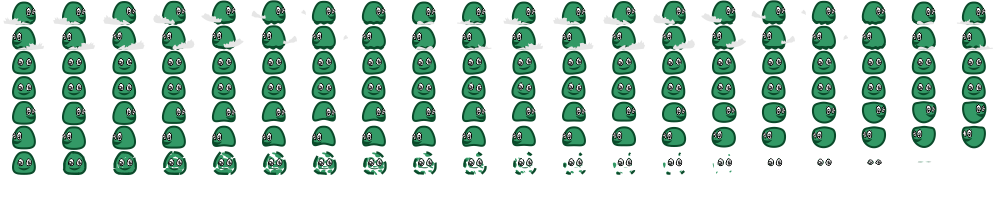
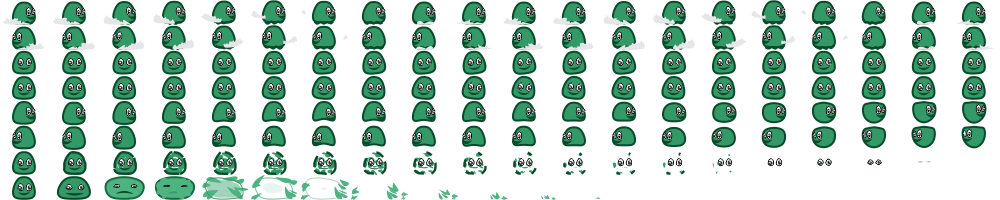
Added death animation

Changed region(s): [[0.0, 0.87, 0.403, 1.0], [0.496, 0.96, 0.558, 1.0], [0.434, 0.96, 0.465, 1.0]]

diff --git a/src/BlobApp/Entities/EntityTypes/Blob.js b/src/BlobApp/Entities/EntityTypes/Blob.js
@@ -50,7 +50,9 @@ BlobApp.Blob = (function Blob(x_pos, y_pos, blobID) {
 				afterTeleport: {
 					frames : [139,138,137,136,135,134,133,132,131,130,129,128,127,126,125,124,123,122,121,120], 
 					next: "idle1"
-				}
+				},
+				death: [140, 151, "afterDeath"],
+				afterDeath: [152, 152, "afterDeath"]
 			}
 		}
 
@@ -98,9 +100,10 @@ BlobApp.Blob = (function Blob(x_pos, y_pos, blobID) {
 		sprite.gotoAndPlay("jumpLeft");
 	},
 
-	_animate = function(event, data) {					
-		if(sprite.currentAnimation == "teleport" || sprite.currentAnimation == "afterTeleport") return;
-		if(animateBlobs && blobID==data.blobID) {				
+	_animate = function(event, data) {		
+		if(sprite.currentAnimation == "teleport" || sprite.currentAnimation == "afterTeleport"
+			|| sprite.currentAnimation == "death") return;
+		if(animateBlobs && blobID == data.blobID) {				
 			switch(data.animationKey) {
 				case AnimationKeys.IDLE1:
 					sprite.gotoAndPlay("idle1");
@@ -124,6 +127,10 @@ BlobApp.Blob = (function Blob(x_pos, y_pos, blobID) {
 
 				case AnimationKeys.TELEPORT:
 					sprite.gotoAndPlay("teleport");
+				break;
+
+				case AnimationKeys.DEATH:
+					sprite.gotoAndPlay("death");
 				break;
 			}
 		}

diff --git a/src/BlobApp/Handlers/CollisionHandler.js b/src/BlobApp/Handlers/CollisionHandler.js
@@ -397,6 +397,11 @@ BlobApp.CollisionHandler = (function() {
 
 	/* Triggers an event that kills a player */
 	private._playerOnSpikes = function(playerName) {
+		if (playerName == "greenBlob") {
+			$('body').trigger("blobanimationChanged", {blobID: EntityConfig.GREENBLOBID, animationKey: AnimationKeys.DEATH});
+		} else {
+			$('body').trigger("blobanimationChanged", {blobID: EntityConfig.REDBLOBID, animationKey: AnimationKeys.DEATH});
+		}
 		$('body').trigger('playerOnSpikes', playerName);
 	},
 

diff --git a/src/BlobApp/GameModel/LevelLoader.js b/src/BlobApp/GameModel/LevelLoader.js
@@ -495,7 +495,7 @@ BlobApp.LevelLoader = (function() {
 		var messageToView = {
 			generic : false,
 			x : x,
-			y : y+12.5,
+			y : y+10,
 			entityID : EntityConfig.LEVELDOOR,
 			levelID : levelDoorLevelID,
 			owID : levelDoorOverID

diff --git a/src/BlobApp/Entities/EntityConfig.js b/src/BlobApp/Entities/EntityConfig.js
@@ -63,7 +63,8 @@ AnimationKeys = {
 	LOOSEN: 13,
 	OPEN: 14,
 	PRESSBUTTON: 15,
-	WAITING: 16
+	WAITING: 16,
+	DEATH: 17
 },
 
 // 1 = keyboard, 2 = controller
